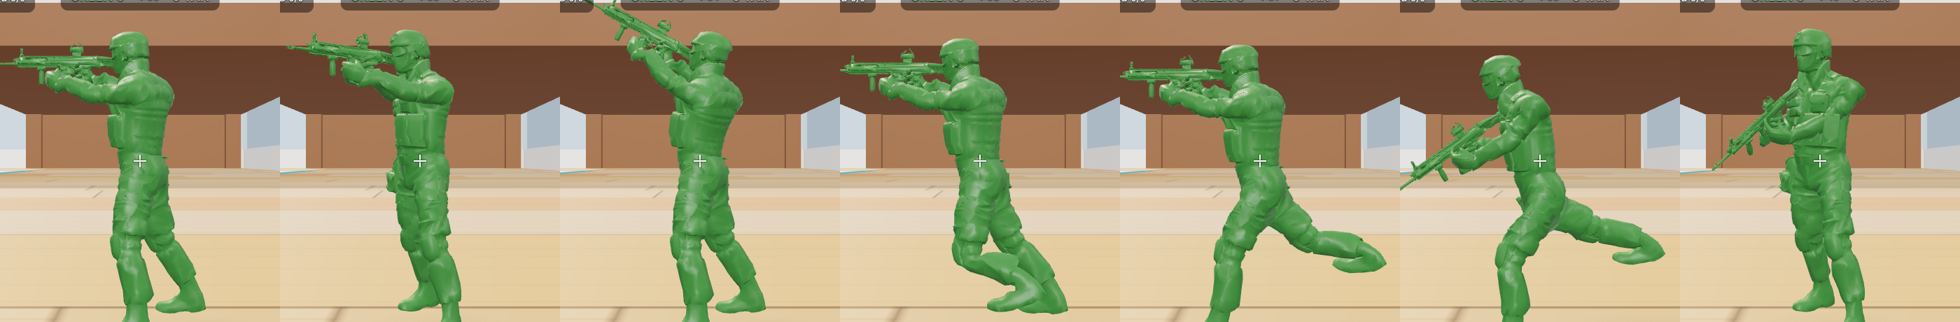
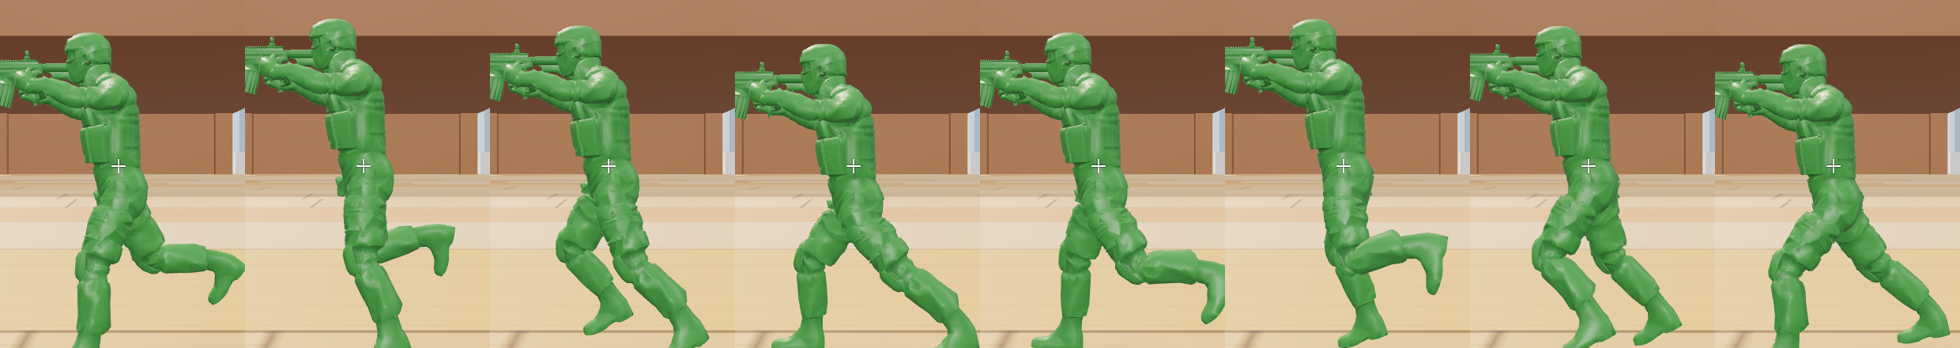
Toy Soldiers: cleaner soldier skinning and a proper run cycle
Skinning: weights are now assigned by body region (torso by height,
limbs along their own length with blends at each joint) and relaxed
across the mesh, replacing nearest-bone distance weights that crumpled
the vest and back. Feet no longer over-rotate. Per-vertex cavity
shading makes pouches, straps and folds read on one-colour plastic.

Running: a keyframed gait (strike, push-off, knee drive, recovery)
replaces the sine swing; cadence rises with speed, hips ride on the
supporting leg with lift between strides and twist with each step, the
upper body leans in, and legs step along the direction of travel so
sidestepping and backpedalling look right. The sideways standing
stance fades out when moving.

Claude-Session: https://claude.ai/code/session_0152o8Qf7nJissMg9Znhw23j

diff --git a/toy-soldiers/src/entities/RiggedSoldier.js b/toy-soldiers/src/entities/RiggedSoldier.js
@@ -1,6 +1,5 @@
 import * as THREE from 'three';
 import { GLTFLoader } from 'three/addons/loaders/GLTFLoader.js';
-import { plastic } from '../world/materials.js';
 import { CONFIG } from '../config.js';
 
 // The soldier: a gun-less character mesh with a skeleton built here, holding
@@ -58,6 +57,8 @@ export async function preloadSoldier() {
   const hands = { [-1]: side(-1), 1: side(1) };
   for (const g of [game, full]) skin(g, J, rest, hands);
   const guns = {};
+  // Guns share the soldier's material, which uses vertex colours: give them plain white.
+  for (const g of gunData) if (g.isBufferGeometry) g.setAttribute('color', new THREE.BufferAttribute(new Float32Array(g.getAttribute('position').count * 3).fill(1), 3));
   gunIds.forEach((id, i) => {
     const hold = gunData[i * 3 + 2];
     guns[id] = { game: gunData[i * 3], full: gunData[i * 3 + 1], hold: Object.fromEntries(Object.entries(hold).map(([k, v]) => [k, Array.isArray(v) ? V(v) : v])) };
@@ -72,56 +73,123 @@ function restPositions(J) {
 }
 
 // ---- skinning -------------------------------------------------------------------
-// Each bone is a segment with a thickness. A vertex follows the bones it is
-// closest to; hands and fingers are assigned by position along the arm.
+// Each vertex is assigned by where it sits on the body, not by raw distance
+// to bones: the torso blends smoothly by height, each limb blends along its
+// own length at the joints, and the result is then relaxed across the mesh
+// so neighbouring vertices never disagree sharply. That keeps flat things
+// (the vest, the back plate, pouches) flat when he twists and bends.
 function skin(geometry, J, rest, hands) {
-  const pos = geometry.getAttribute('position');
-  const idx = new Uint16Array(pos.count * 4), wgt = new Float32Array(pos.count * 4);
-  const L = J.left, R = J.right, up = (v, dy) => V(v).add(new THREE.Vector3(0, dy, 0));
-  const segs = [ // [bone, from, to, radius, side (0 = either)]
-    [B.hips, up(J.hips, -0.2), V(J.spine), 0.5, 0], [B.spine, V(J.spine), V(J.chest), 0.5, 0], [B.chest, V(J.chest), up(J.neck, -0.1), 0.6, 0],
-    [B.head, V(J.neck), V(J.headTop), 0.42, 0],
-    [B.armL, V(L.shoulder), V(L.elbow), 0.2, -1], [B.foreL, V(L.elbow), V(L.wrist), 0.17, -1],
-    [B.armR, V(R.shoulder), V(R.elbow), 0.2, 1], [B.foreR, V(R.elbow), V(R.wrist), 0.17, 1],
-    [B.thighL, V(L.hip), V(L.knee), 0.26, -1], [B.shinL, V(L.knee), V(L.ankle), 0.22, -1], [B.footL, V(L.ankle), V(L.toe), 0.2, -1],
-    [B.thighR, V(R.hip), V(R.knee), 0.26, 1], [B.shinR, V(R.knee), V(R.ankle), 0.22, 1], [B.footR, V(R.ankle), V(R.toe), 0.2, 1],
-  ];
-  const p = new THREE.Vector3(), ab = new THREE.Vector3(), q = new THREE.Vector3();
-  const dist = (a, b) => {
-    ab.subVectors(b, a);
-    const t = THREE.MathUtils.clamp(q.subVectors(p, a).dot(ab) / ab.lengthSq(), 0, 1);
-    return q.copy(a).addScaledVector(ab, t).distanceTo(p);
+  const pos = geometry.getAttribute('position'), n = pos.count;
+  const W = new Float32Array(n * COUNT);
+  const L = J.left, R = J.right;
+  const limb = (a) => {
+    const hip = V(a.hip), knee = V(a.knee), ankle = V(a.ankle), shoulder = V(a.shoulder), elbow = V(a.elbow);
+    return { hip, knee, ankle, shoulder, elbow, kneeDir: knee.clone().sub(hip).normalize().add(ankle.clone().sub(knee).normalize()).normalize() };
   };
-  for (let i = 0; i < pos.count; i++) {
+  const limbs = { [-1]: limb(L), 1: limb(R) };
+  const p = new THREE.Vector3(), q = new THREE.Vector3();
+  for (let i = 0; i < n; i++) {
     p.fromBufferAttribute(pos, i);
-    const s = p.x < 0 ? -1 : 1;
-    const cand = [];
-    for (const [bone, a, b, r, sd] of segs) {
-      if (sd && sd !== s) continue;
-      const d = Math.max(0, dist(a, b) - r);
-      cand.push([bone, 1 / (d + 0.05) ** 4]);
+    const s = p.x < 0 ? -1 : 1, lm = limbs[s], h = hands[s], o = i * COUNT;
+    const arm = s < 0 ? B.armL : B.armR, thigh = s < 0 ? B.thighL : B.thighR;
+
+    // Torso, by height.
+    const a = smooth(J.spine[1] - 0.4, J.spine[1] + 0.3, p.y);
+    const b = smooth(J.chest[1] - 0.35, J.chest[1] + 0.35, p.y);
+    const c = smooth(J.neck[1] - 0.18, J.neck[1] + 0.1, p.y);
+    let torso = 1;
+
+    // Leg: everything below the hips, split at the knee and the ankle.
+    const leg = 1 - smooth(J.hips[1] - 0.45, J.hips[1] + 0.2, p.y);
+    if (leg > 0) {
+      const shin = smooth(-0.25, 0.25, q.subVectors(p, lm.knee).dot(lm.kneeDir));
+      const foot = 1 - smooth(lm.ankle.y - 0.14, lm.ankle.y + 0.14, p.y);
+      W[o + thigh] = leg * (1 - shin);
+      W[o + thigh + 1] = leg * shin * (1 - foot);
+      W[o + thigh + 2] = leg * shin * foot;
+      torso -= leg;
     }
-    cand.sort((x, y) => y[1] - x[1]);
-    let top = cand.slice(0, 2);
-    // Hand and fingers: past the wrist, measured along the arm.
-    const h = hands[s];
-    const along = q.subVectors(p, h.wrist).dot(h.armDir);
-    const off = q.subVectors(p, h.wrist).addScaledVector(h.armDir, -along).length();
-    const hand = off < 0.7 ? smooth(-0.06, 0.08, along) : 0;
-    const fingers = hand * smooth(-0.05, 0.07, q.subVectors(p, h.knuckle).dot(h.armDir));
-    let sum = top.reduce((t, c) => t + c[1], 0);
-    const out = top.map(([bone, w]) => [bone, (w / sum) * (1 - hand)]);
-    if (hand > 0) out.push([s < 0 ? B.handL : B.handR, hand - fingers], [s < 0 ? B.fingersL : B.fingersR, fingers]);
-    for (let k = 0; k < 4; k++) { idx[i * 4 + k] = out[k]?.[0] ?? 0; wgt[i * 4 + k] = out[k]?.[1] ?? 0; }
+
+    // Arm: a sleeve around the line from shoulder to hand, outside the chest.
+    const t = q.subVectors(p, lm.shoulder).dot(h.armDir);
+    const radial = q.subVectors(p, lm.shoulder).addScaledVector(h.armDir, -t).length();
+    const sleeve = smooth(-0.28, 0.22, t) * (1 - smooth(0.3, 0.46, radial)) * smooth(0.42, 0.58, Math.abs(p.x)) * torso;
+    if (sleeve > 0) {
+      const fore = smooth(-0.22, 0.22, q.subVectors(p, lm.elbow).dot(h.armDir));
+      const hand = smooth(-0.06, 0.08, q.subVectors(p, h.wrist).dot(h.armDir));
+      const fingers = smooth(-0.05, 0.07, q.subVectors(p, h.knuckle).dot(h.armDir));
+      W[o + arm] = sleeve * (1 - fore);
+      W[o + arm + 1] = sleeve * fore * (1 - hand);
+      W[o + arm + 2] = sleeve * fore * hand * (1 - fingers);
+      W[o + arm + 3] = sleeve * fore * hand * fingers;
+      torso -= sleeve;
+    }
+    W[o + B.hips] = torso * (1 - a);
+    W[o + B.spine] = torso * a * (1 - b);
+    W[o + B.chest] = torso * a * b * (1 - c);
+    W[o + B.head] = torso * a * b * c;
+  }
+
+  // Relax across the mesh: each vertex moves toward the average of its neighbours.
+  const index = geometry.index, near = Array.from({ length: n }, () => new Set());
+  for (let t = 0; t < index.count; t += 3) {
+    const x = index.getX(t), y = index.getX(t + 1), z = index.getX(t + 2);
+    near[x].add(y).add(z); near[y].add(x).add(z); near[z].add(x).add(y);
+  }
+  let cur = W, next = new Float32Array(W.length);
+  for (let pass = 0; pass < 3; pass++) {
+    for (let i = 0; i < n; i++) {
+      const o = i * COUNT, k = near[i].size;
+      for (let bn = 0; bn < COUNT; bn++) {
+        let sum = 0;
+        for (const j of near[i]) sum += cur[j * COUNT + bn];
+        next[o + bn] = k ? 0.5 * cur[o + bn] + (0.5 * sum) / k : cur[o + bn];
+      }
+    }
+    [cur, next] = [next, cur];
+  }
+
+  // Keep the four strongest bones per vertex.
+  const idx = new Uint16Array(n * 4), wgt = new Float32Array(n * 4), order = Array.from({ length: COUNT }, (_, k) => k);
+  for (let i = 0; i < n; i++) {
+    const o = i * COUNT;
+    order.sort((x, y) => cur[o + y] - cur[o + x]);
+    let sum = 0;
+    for (let k = 0; k < 4; k++) sum += cur[o + order[k]];
+    for (let k = 0; k < 4; k++) { idx[i * 4 + k] = order[k]; wgt[i * 4 + k] = cur[o + order[k]] / (sum || 1); }
   }
   geometry.setAttribute('skinIndex', new THREE.BufferAttribute(idx, 4));
   geometry.setAttribute('skinWeight', new THREE.BufferAttribute(wgt, 4));
+  shadeCavities(geometry, near);
+}
+
+// Darken creases and recesses slightly, per vertex. A one-colour plastic
+// figure is hard to read without this: it is what makes pouches, straps and
+// folds stand out, the way dirt and shadow do on a real toy.
+function shadeCavities(geometry, near) {
+  const pos = geometry.getAttribute('position'), nor = geometry.getAttribute('normal'), n = pos.count;
+  let cav = new Float32Array(n);
+  const p = new THREE.Vector3(), q = new THREE.Vector3(), nv = new THREE.Vector3();
+  for (let i = 0; i < n; i++) {
+    p.fromBufferAttribute(pos, i); nv.fromBufferAttribute(nor, i);
+    let sum = 0;
+    for (const j of near[i]) sum += q.fromBufferAttribute(pos, j).sub(p).normalize().dot(nv); // > 0: neighbours rise above this vertex
+    cav[i] = near[i].size ? sum / near[i].size : 0;
+  }
+  for (let pass = 0; pass < 2; pass++) { // soften
+    const out = new Float32Array(n);
+    for (let i = 0; i < n; i++) { let sum = 0; for (const j of near[i]) sum += cav[j]; out[i] = near[i].size ? 0.5 * cav[i] + (0.5 * sum) / near[i].size : cav[i]; }
+    cav = out;
+  }
+  const col = new Float32Array(n * 3);
+  for (let i = 0; i < n; i++) col.fill(1 - THREE.MathUtils.clamp(cav[i] * 1.7, -0.12, 0.45), i * 3, i * 3 + 3);
+  geometry.setAttribute('color', new THREE.BufferAttribute(col, 3));
 }
 
 // Rigid chunks, one per bone, for the break-apart effect. Each is stored
 // relative to its bone, so it appears wherever that bone currently is.
 function boneChunks(geometry, rest) {
-  const pos = geometry.getAttribute('position'), nor = geometry.getAttribute('normal'), index = geometry.index;
+  const pos = geometry.getAttribute('position'), nor = geometry.getAttribute('normal'), col = geometry.getAttribute('color'), index = geometry.index;
   const si = geometry.getAttribute('skinIndex'), sw = geometry.getAttribute('skinWeight');
   const main = new Uint8Array(pos.count);
   for (let i = 0; i < pos.count; i++) {
@@ -138,24 +206,29 @@ function boneChunks(geometry, rest) {
   const out = [];
   tris.forEach((list, bone) => {
     if (list.length < 30) return;
-    const remap = new Map(), p = [], n = [], idx = [];
+    const remap = new Map(), p = [], n = [], cl = [], idx = [];
     for (const v of list) {
-      if (!remap.has(v)) { remap.set(v, p.length / 3); p.push(pos.getX(v) - rest[bone].x, pos.getY(v) - rest[bone].y, pos.getZ(v) - rest[bone].z); n.push(nor.getX(v), nor.getY(v), nor.getZ(v)); }
+      if (!remap.has(v)) { remap.set(v, p.length / 3); p.push(pos.getX(v) - rest[bone].x, pos.getY(v) - rest[bone].y, pos.getZ(v) - rest[bone].z); n.push(nor.getX(v), nor.getY(v), nor.getZ(v)); cl.push(col.getX(v), col.getY(v), col.getZ(v)); }
       idx.push(remap.get(v));
     }
     const g = new THREE.BufferGeometry();
     g.setAttribute('position', new THREE.Float32BufferAttribute(p, 3));
     g.setAttribute('normal', new THREE.Float32BufferAttribute(n, 3));
+    g.setAttribute('color', new THREE.Float32BufferAttribute(cl, 3));
     g.setIndex(idx);
     out.push({ geometry: g, bone, matrix: new THREE.Matrix4() });
   });
   return out;
 }
 
+const materials = {};
 export function soldierMaterial(team) {
-  const mat = plastic(TEAM_COLORS[team], { roughness: 0.45 });
-  mat.side = THREE.DoubleSide; // broken pieces are hollow
-  return mat;
+  materials[team] ??= new THREE.MeshStandardMaterial({
+    color: TEAM_COLORS[team], roughness: 0.45, metalness: 0,
+    vertexColors: true,       // cavity shading (see shadeCavities)
+    side: THREE.DoubleSide,   // broken pieces are hollow
+  });
+  return materials[team];
 }
 
 // ---- the soldier --------------------------------------------------------------------
@@ -235,36 +308,65 @@ function aimBone(model, i, restDir, dir, twist = 0) {
   model.bones[i].quaternion.copy(_q2.copy(wq[par]).invert()).multiply(wq[i]);
 }
 
+// One leg's angles through a running stride. `p` is 0 at foot strike, 0.4 at
+// toe-off, 1 at the next strike. Radians: thigh forward (+), knee flexed
+// (+), foot relative to the shin (toe up +).
+const GAIT = {
+  at: [0, 0.2, 0.4, 0.6, 0.8, 1],
+  thigh: [0.5, 0.02, -0.5, -0.08, 0.8, 0.5],
+  knee: [0.25, 0.5, 0.22, 1.65, 0.95, 0.25],
+  foot: [0.15, 0.0, -0.5, -0.35, -0.05, 0.15],
+};
+function gait(curve, p) {
+  p -= Math.floor(p);
+  const k = Math.min(4, Math.floor(p * 5)), t = p * 5 - k;
+  // Catmull-Rom through the keys, wrapping round the cycle.
+  const v = (j) => curve[((j % 5) + 5) % 5];
+  const p0 = v(k - 1), p1 = v(k), p2 = v(k + 1), p3 = v(k + 2);
+  return 0.5 * (2 * p1 + (p2 - p0) * t + (2 * p0 - 5 * p1 + 4 * p2 - p3) * t * t + (3 * p1 - p0 - 3 * p2 + p3) * t * t * t);
+}
+
 // Run cycle, aim, recoil, reload, sprint, and holding the gun.
 //   phase: advances with distance (2π per stride); amount: 0 standing to 1 running;
 //   pace: 1 at a jog, higher sprinting.
-//   pose: { pitch (radians), kick, reload, sprint, ads } — ads is 1 with the gun
-//   up at the eye (how other soldiers always hold it) and 0 at the hip.
+//   pose: { pitch (radians), kick, reload, sprint, ads, moveAngle } — ads is 1
+//   with the gun up at the eye (how other soldiers always hold it) and 0 at
+//   the hip; moveAngle is the direction of travel relative to where he faces
+//   (0 forward, π/2 to his right, π backward).
 export function animateSoldier(model, phase, amount, pace = 1, pose = {}) {
   const { rest, J, hands } = assets;
-  const { pitch = 0, kick = 0, reload = 0, sprint = 0, ads = 1 } = pose;
+  const { pitch = 0, kick = 0, reload = 0, sprint = 0, ads = 1, moveAngle = 0 } = pose;
   const aim = THREE.MathUtils.clamp(pitch, -0.9, 0.9);
   const carry = Math.max(sprint, reload);
+  const fwd = Math.cos(moveAngle), sideways = Math.sin(moveAngle);
 
   // ---- legs: decide the angles first, so the hips can sit at the right height
-  const reach = 0.62 * Math.min(1.35, pace);
+  const stride = Math.min(1.15, 0.75 + 0.25 * pace) * (1 - 0.35 * Math.abs(sideways)); // longer when faster, shorter sidestepping
   const legs = [-1, 1].map((s) => {
-    const ph = phase + (s > 0 ? Math.PI : 0);
+    const p = phase / (Math.PI * 2) + (s > 0 ? 0.5 : 0);
     const stance = s < 0 ? 0.2 : -0.16;                                   // standing: left foot forward
-    const swing = THREE.MathUtils.lerp(stance, Math.sin(ph) * reach, amount);
-    const bend = THREE.MathUtils.lerp(0.22, 0.2 + 1.15 * Math.max(0, Math.cos(ph)) ** 1.3, amount);
-    return { s, swing, bend };
+    const swing = THREE.MathUtils.lerp(stance, gait(GAIT.thigh, p) * stride, amount);
+    const bend = THREE.MathUtils.lerp(0.22, gait(GAIT.knee, p), amount);
+    const foot = THREE.MathUtils.lerp(0, gait(GAIT.foot, p), amount);
+    return { s, swing, bend, foot };
   });
   const Lt = rest[B.thighL].distanceTo(rest[B.shinL]), Ls = rest[B.shinL].distanceTo(rest[B.footL]);
+  // Hips ride on whichever leg reaches lowest, plus a little lift between
+  // strides when both feet are off the ground.
   const drop = Math.max(...legs.map((l) => Lt * Math.cos(l.swing) + Ls * Math.cos(l.swing - l.bend)));
+  const lift = 0.14 * amount * Math.min(1.3, pace) * Math.max(0, Math.sin(phase * 2 - 0.9));
+  const twist = Math.sin(phase) * 0.14 * amount;                           // hips turn with each stride
+  const bladed = 0.3 * (1 - carry) * (1 - amount);                         // standing: body turned off the line of fire
 
   // ---- body
   const hips = model.bones[B.hips];
-  hips.position.set(rest[B.hips].x, rest[B.footL].y + drop + 0.02 * amount, rest[B.hips].z);
-  fk(model, B.hips, -0.08 * amount - 0.1 * sprint, -0.3 * (1 - carry) + Math.sin(phase) * 0.08 * amount, Math.sin(phase) * 0.03 * amount);
+  hips.position.set(rest[B.hips].x, rest[B.footL].y + drop + lift, rest[B.hips].z);
+  fk(model, B.hips, -0.05 * amount, -bladed + twist, 0);
   place(model, B.hips);
-  fk(model, B.spine, aim * 0.25 - 0.06, -0.12 * (1 - carry), 0); place(model, B.spine);
-  fk(model, B.chest, aim * 0.25 - 0.05 - 0.1 * sprint, -0.1 * (1 - carry), 0); place(model, B.chest);
+  // The upper body leans into the run and turns back against the hips.
+  const lean = 0.1 * amount * fwd + 0.12 * sprint;
+  fk(model, B.spine, aim * 0.25 - 0.05 - lean, -0.4 * bladed - twist * 0.6, 0); place(model, B.spine);
+  fk(model, B.chest, aim * 0.25 - 0.04 - lean * 0.6, -0.35 * bladed - twist * 0.5, 0); place(model, B.chest);
   place(model, B.head);
   // Head looks where he aims, whatever the body is doing, tipped onto the sights.
   wq[B.head].setFromEuler(_e.set(aim * 0.85, 0, -0.1 * ads * (1 - carry), 'YXZ'));
@@ -320,12 +422,14 @@ export function animateSoldier(model, phase, amount, pace = 1, pose = {}) {
     model.bones[fingers].quaternion.setFromAxisAngle(hands[s].curl, 1.35);
   }
 
-  // ---- legs
+  // ---- legs: swing along the direction of travel
   for (const l of legs) {
     const thigh = l.s < 0 ? B.thighL : B.thighR;
     const splay = 0.07 * l.s * (1 - amount * 0.6);
-    fk(model, thigh, l.swing, 0.3 * (1 - carry) * (1 - amount), splay);       // undo the hip turn so feet point forward
+    fk(model, thigh, l.swing * fwd, bladed, splay + l.swing * sideways * 0.8);
     fk(model, thigh + 1, -l.bend, 0, 0);
-    fk(model, thigh + 2, l.bend - l.swing + Math.max(0, -Math.sin(phase + (l.s > 0 ? Math.PI : 0))) * 0.35 * amount, 0, -splay);
+    // Foot: flat on the ground when standing, following the stride when running.
+    const level = THREE.MathUtils.clamp(l.bend - l.swing * fwd, -0.5, 0.5);
+    fk(model, thigh + 2, THREE.MathUtils.lerp(level, -l.foot, amount), 0, -splay);
   }
 }

diff --git a/toy-soldiers/src/entities/Soldier.js b/toy-soldiers/src/entities/Soldier.js
@@ -211,7 +211,8 @@ export class Soldier {
     m.root.position.set(this.position.x, this.feet, this.position.z);
     m.root.rotation.y = this.yaw;
     const speed = this.horizontal.length();
-    this.walkPhase += dt * speed * 0.42;
+    // Cadence rises with speed, up to about four strides a second.
+    this.walkPhase += dt * Math.min(speed * 0.62, 26);
     // Ease in and out of the run so the legs never snap between poses.
     const target = this.grounded ? Math.min(1, speed / (M.walkSpeed * 0.6)) : 0.35;
     this.runBlend += (target - this.runBlend) * (1 - Math.exp(-dt * 12));
@@ -221,8 +222,15 @@ export class Soldier {
     this.reloadBlend += ((this.isReloading ? 1 : 0) - this.reloadBlend) * ease;
     this.kick *= Math.exp(-dt * 16);
     setGun(m, this.gunModel ?? CONFIG.weapons.rifle.model);
+    // Which way he is travelling relative to where he faces, so the legs
+    // step that way: forward, sideways or backward.
+    if (speed > 1) {
+      const sin = Math.sin(this.yaw), cos = Math.cos(this.yaw);
+      const forward = -sin * this.horizontal.x - cos * this.horizontal.z, right = cos * this.horizontal.x - sin * this.horizontal.z;
+      this.moveAngle = Math.atan2(right, forward);
+    }
     animateSoldier(m, this.walkPhase, this.runBlend, speed / M.walkSpeed, {
-      sprint: this.sprintBlend, reload: this.reloadBlend, kick: this.kick, pitch: this.pitch,
+      sprint: this.sprintBlend, reload: this.reloadBlend, kick: this.kick, pitch: this.pitch, moveAngle: this.moveAngle ?? 0,
     });
   }
 }

diff --git a/toy-soldiers/src/systems/Weapon.js b/toy-soldiers/src/systems/Weapon.js
@@ -146,7 +146,7 @@ export class Weapon {
       : this.swapping > 0 ? this.swapping / SWAP_SECONDS : 0;
     setGun(this.fp, this.def.model, 'full');
     animateSoldier(this.fp, p.walkPhase, p.runBlend, p.horizontal.length() / CONFIG.move.walkSpeed, {
-      pitch: 0, kick: this.kick, reload: lowered, sprint: p.sprintBlend * (1 - a), ads: a,
+      pitch: 0, kick: this.kick, reload: lowered, sprint: p.sprintBlend * (1 - a), ads: a, moveAngle: p.moveAngle ?? 0,
     });
     this.fp.root.position.copy(this.fp.eye).negate(); // his eye at the camera
     this.holder.position.set(

diff --git a/toy-soldiers/README.md b/toy-soldiers/README.md
@@ -76,14 +76,16 @@ The soldier is a gun-less character mesh with a skeleton, holding a separate gun
   | Sidearm | Glock 19 | supplied by the project owner |
   | Scatter Gun, Long Shot | CZ Bren 2 (stand-in until they have their own) | Studio-Svoboda |
 
-- **Skeleton and movement** are made in the game (`src/entities/RiggedSoldier.js`): 18 bones, skin weights computed from the measured joints, a run cycle, the spine following the aim, and both arms solved every frame to reach the gun's grips wherever the gun is (aiming, recoil, reload, sprint carry). Soldiers break into one piece per bone when shot.
+- **Skeleton and movement** are made in the game (`src/entities/RiggedSoldier.js`): 18 bones and skin weights computed from the measured joints. The torso blends by height and each limb along its own length, then the weights are relaxed across the mesh, so flat kit stays flat when he bends. Creases are darkened slightly per vertex so the one-colour plastic reads clearly.
+- **Animation**: a keyframed run cycle (foot strike, push-off, knee drive) whose legs step in the direction of travel, forward, sideways or backward; the spine follows the aim; both arms are solved every frame to reach the gun's grips wherever the gun is (aiming, recoil, reload, sprint carry). Soldiers break into one piece per bone when shot.
 - **First person** is a second copy of the player's soldier at full detail with the head hidden, seen from his eye, so it always matches what others see.
 
 To add a gun: `node tools/gun2glb.mjs <gun.glb> public/models/guns/<name> --length <cm> --grip <material> --fore <material> --stock <material> --sight <material> --barrel <material>`, then set `model: '<name>'` on a weapon in `src/config.js`. A part can also be given as a region of the source model (`box:x0,y0,z0,x1,y1,z1`) when the gun has no separate part for it; `public/models/guns/CREDITS.txt` lists the sources.
 
 Earlier static figures (nimproductions, CC BY 4.0; Dolphin-GS) are kept in `public/models/soldier/` for the gallery. All credits: `public/models/soldier/CREDITS.txt` and `public/models/guns/CREDITS.txt`. Kenney's CC0 models are in `public/models/kenney/`.
 
-![Poses: standing, quarter view, aiming up, running, sprinting, reloading](docs/run-cycle.png)
+![Run cycle, eight frames of one stride](docs/run-cycle.png)
+![Close-up: front quarter, back, legs mid-stride](docs/soldier-close-up.png)
 ![M4A1: third person, then first person at the hip and aiming](docs/gun-m4a1.png)
 ![Glock 19: third person, then first person at the hip and aiming](docs/gun-glock.png)
 
